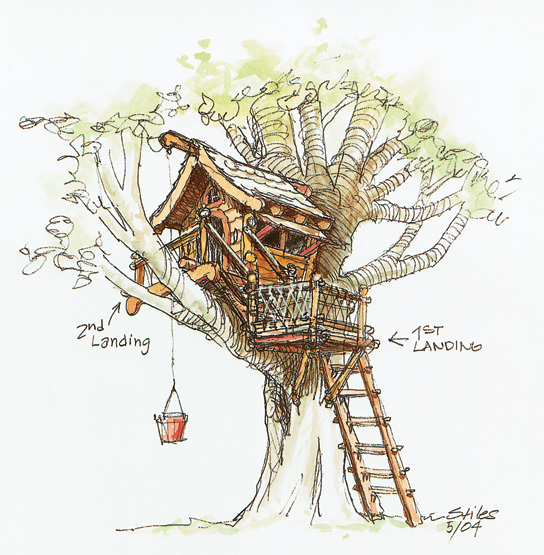
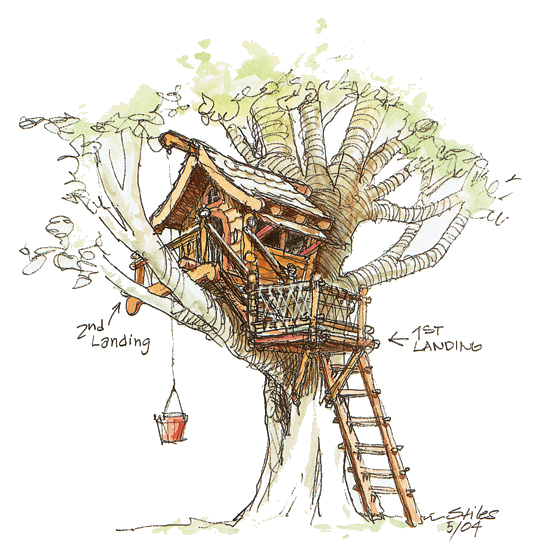
changed backgroundcolor on desktop width

diff --git a/content/css/core.css b/content/css/core.css
@@ -177,7 +177,7 @@ body{
     -webkit-box-shadow:  0px 0px 5px rgba(0,0,0,0.5);
     box-shadow:  0px 0px 5px rgba(0,0,0,0.5);
     margin-right: 1.886792%;     /*20px / 1060px*/
-    background-color: #f4f4f4;
+    background-color: #fdf8f1;
 }
 
 
@@ -291,7 +291,7 @@ body{
 }
 
 #infoArea {
-    background-color: #f4f4f4;
+    background-color: #fff;
     min-height: 648px;
 
 
